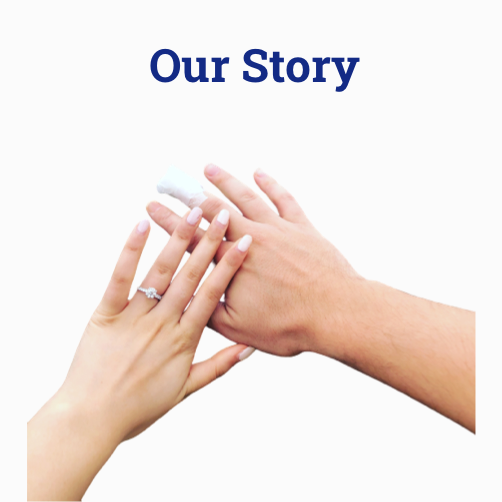
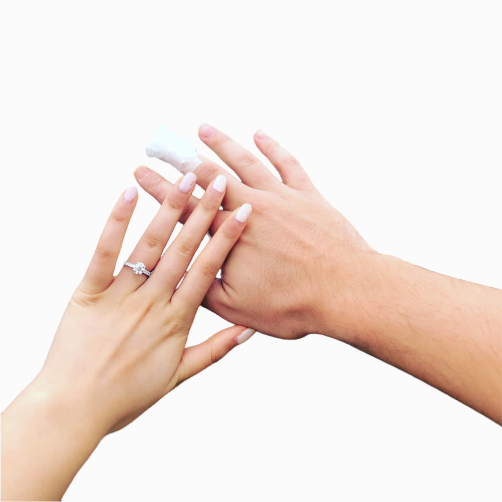
Updated the CSS with better logic and added images without text overlay

Changed region(s): [[0.0, 0.239, 1.0, 1.0], [0.4781, 0.0896, 0.7171, 0.1793], [0.2988, 0.0896, 0.4482, 0.1793]]

diff --git a/app/routables/en/styles.scss b/app/routables/en/styles.scss
@@ -1,3 +1,13 @@
+//Reusable classes
+.text-over-image {
+  position: relative;
+  .text {
+    position: absolute;
+    top: 0;
+    left: 0;
+  }
+}
+
 section#hero {
   height: 100vh;
   .middle {
@@ -79,26 +89,58 @@ section#row-two {
   justify-content: center;
   .accommodation {
     margin: 10px 10px 10px 0px;
-    img {
-      position: relative;
+    .text {
+      text-align: center;
+      width: 100%;
+      display: flex;
+      flex-direction: column;
+      justify-content: space-between;
+      height: 100%;
+      padding: 50px;
+      box-sizing: border-box;
+      h2 {
+        font-size: 46px;
+        font-family: "RobotoSlab-Bold", sans-serif;
+        color: white;
+      }
+      a {
+        color: white;
+        font-size: 24px;
+        font-family: "RobotoSlab-SemiBold", sans-serif;
+      }
     }
   }
-
-  .our-story {
-    margin: 10px 0px 10px 10px;
-  }
 }
+
+.our-story {
+  margin: 10px 0 10px 10px;
+}
+
 section#row-three {
   display: flex;
   justify-content: center;
-  img {
-    position: absolute;
-  }
-  h2 {
-    position: relative;
-  }
-  a {
-    position: relative;
+  .activities {
+    margin: 10px 0;
+    .text {
+      position: absolute;
+      top: 70px;
+      left: 0;
+      text-align: center;
+      width: 50%;
+      display: flex;
+      flex-direction: column;
+      h2 {
+        margin-bottom: 20px;
+        color: white;
+        font-size: 46px;
+        font-family: "RobotoSlab-Bold", sans-serif;
+      }
+      a {
+        color: white;
+        font-size: 24px;
+        font-family: "RobotoSlab-SemiBold", sans-serif;
+      }
+    }
   }
 }
 
@@ -106,6 +148,19 @@ section#row-four {
   display: flex;
   justify-content: center;
   position: relative;
+  .thankyou {
+    display: flex;
+    justify-content: center;
+    background-color: red;
+    margin: 10px 0px;
+    height: 502px;
+    width: 1023px;
+    h2 {
+      display: flex;
+      align-items: center;
+      color: #1d1d1f;
+    }
+  }
 }
 
 section#footer {
